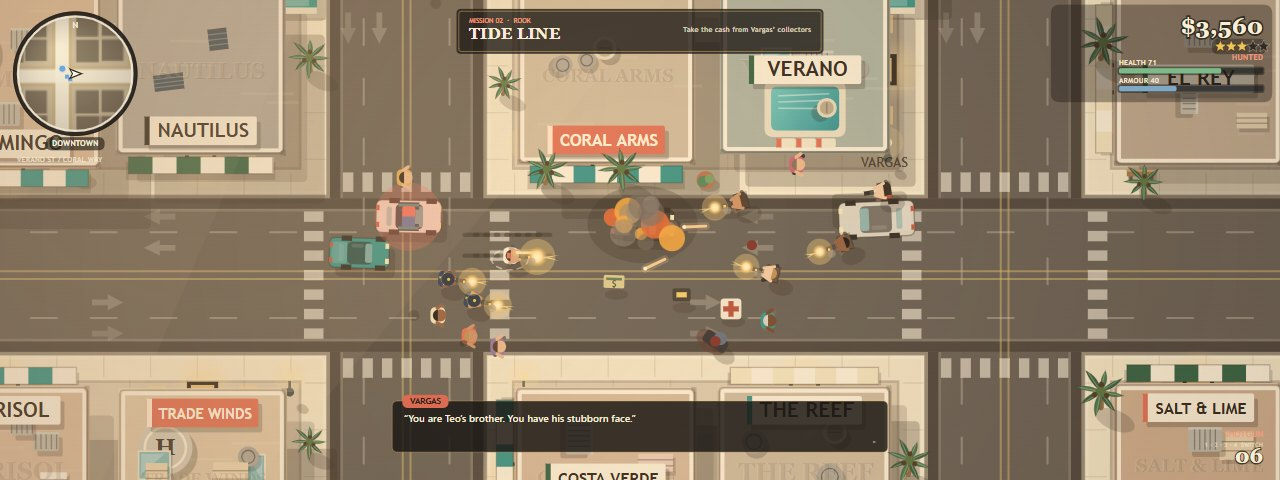
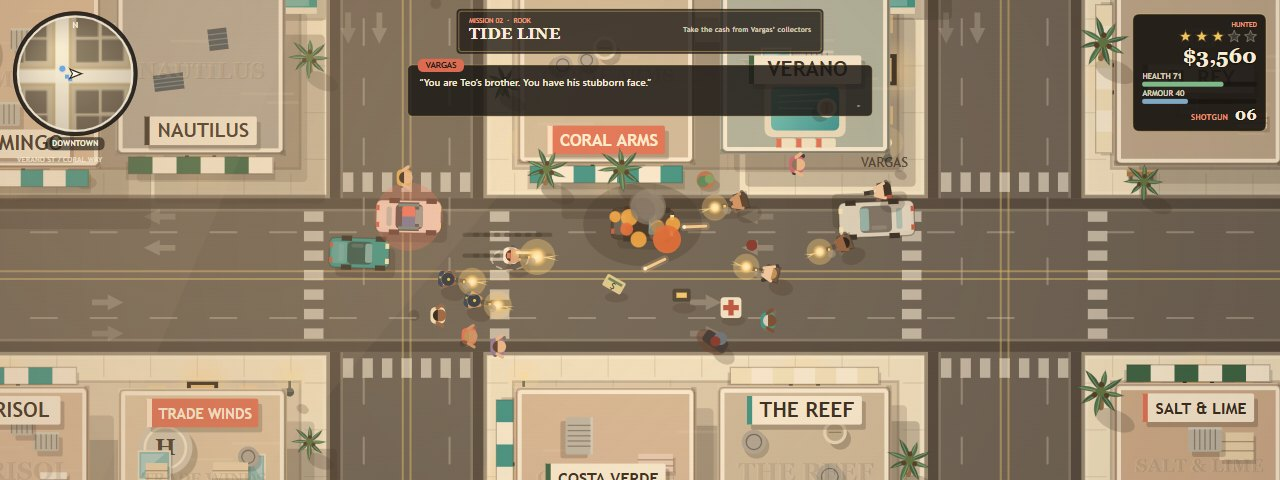
Lay the HUD out as three clean clusters
The status column is now one measured, right-aligned card: wanted stars
with their state above them, cash, health and armour bars with their
labels above the bar, and the weapon with its ammo. The speedometer
moves out of that corner into its own dial inside a 14 px frame margin,
and the dialogue sits under the mission banner instead of the bottom
edge. All widths follow the text, so more money or ammo widens the card
cleanly instead of colliding. Screenshots re-captured.

diff --git a/game/src/hud.js b/game/src/hud.js
@@ -122,113 +122,166 @@ export function createHud(canvas) {
     ctx.font = `600 ${9.5 * s}px ${FONT.narrow}`;
     ctx.fillText(`${street.street} / ${street.cross}`, 22 * s, my + radius + 40 * s);
 
-    // ---- money, wanted stars, health (top right) ----------------------------
-    const right = w - 22 * s;
-    ctx.fillStyle = 'rgba(24,20,17,0.36)';
-    roundRectPath(ctx, w - 296 * s, 6 * s, 286 * s, 126 * s, 12 * s);
-    ctx.fill();
-    ctx.textAlign = 'right';
-    ctx.font = `700 ${30 * s}px ${FONT.display}`;
-    ctx.lineWidth = 4 * s;
-    ctx.strokeStyle = 'rgba(28,23,19,0.72)';
-    const cash = money(p.money);
-    ctx.strokeText(cash, right, 44 * s);
-    ctx.fillStyle = cashFlash > 0 ? '#fff1c2' : PALETTE.cream;
-    ctx.fillText(cash, right, 44 * s);
+    // ---- status column (top right) -----------------------------------------
+    // One right-aligned column: the wanted stars, then the cash, then health and
+    // armour, then the weapon and its ammo. Every row is measured before anything
+    // is drawn, so the panel and the bars widen with the text instead of guessing.
+    const edge = Math.max(14, 14 * s);
+    const padX = 12 * s;
+    const padY = 10 * s;
+    const rowGap = 7 * s;
+    const tightGap = 4 * s;
+    const wantedFont = `700 ${8.5 * s}px ${FONT.narrow}`;
+    const statFont = `700 ${10 * s}px ${FONT.narrow}`;
+    const cashFont = `700 ${27 * s}px ${FONT.display}`;
+    const nameFont = `700 ${10.5 * s}px ${FONT.narrow}`;
+    const ammoFont = `700 ${21 * s}px ${FONT.display}`;
+    const starR = 8 * s;
+    const starGap = 5 * s;
+    const barH = Math.max(6 * s, 5);
 
-    const starsX = right - 5 * 14 * s;
-    const starsY = 60 * s;
-    ctx.fillStyle = 'rgba(28,24,20,0.4)';
-    roundRectPath(ctx, starsX + 4 * s, starsY - 10 * s, 5 * 14 * s, 20 * s, 9 * s);
+    const measure = (px, font, text) => {
+      ctx.font = font;
+      const m = ctx.measureText(text);
+      const asc = m.actualBoundingBoxAscent || px * 0.74;
+      const desc = m.actualBoundingBoxDescent || px * 0.2;
+      return { w: m.width, asc, desc, h: asc + desc };
+    };
+
+    const cash = money(p.money);
+    const weapon = WEAPONS[p.weapon];
+    const ammo = p.weapon === 'fists' ? '—' : String(p.weapons[p.weapon].ammo).padStart(2, '0');
+    const wantedLabel = WANTED.starsLabel[police.level] ?? 'CLEAR';
+    const healthLabel = `HEALTH ${Math.ceil(p.health)}`;
+    const armourLabel = `ARMOUR ${Math.ceil(p.armour)}`;
+    const cashM = measure(27 * s, cashFont, cash);
+    const nameM = measure(10.5 * s, nameFont, weapon.name);
+    const ammoM = measure(21 * s, ammoFont, ammo);
+    const wantedM = measure(8.5 * s, wantedFont, wantedLabel);
+    const healthM = measure(10 * s, statFont, healthLabel);
+    const armourM = measure(10 * s, statFont, armourLabel);
+    const starRowW = WANTED.max * starR * 2 + (WANTED.max - 1) * starGap;
+    const weaponRowW = nameM.w + ammoM.w + 9 * s;
+    const contentW = Math.max(starRowW, wantedM.w, cashM.w, weaponRowW, healthM.w, armourM.w, 148 * s);
+    const panelX = w - edge - contentW - padX * 2;
+    const right = w - edge - padX;
+    const left = right - contentW;
+
+    let cursor = edge + padY;
+    const wantedBaseline = cursor + wantedM.asc;
+    cursor += wantedM.h + 3 * s;
+    const starY = cursor + starR;
+    cursor += starR * 2 + rowGap;
+    const cashBaseline = cursor + cashM.asc;
+    cursor += cashM.h + rowGap;
+    const healthBaseline = cursor + healthM.asc;
+    const healthTop = cursor + healthM.h + 2 * s;
+    cursor = healthTop + barH + tightGap;
+    const armourBaseline = cursor + armourM.asc;
+    const armourTop = cursor + armourM.h + 2 * s;
+    cursor = armourTop + barH + rowGap;
+    const weaponTop = cursor;
+    const weaponBaseline = weaponTop + Math.max(ammoM.asc, nameM.asc);
+    const panelH = weaponTop + Math.max(ammoM.h, nameM.h) + padY - edge;
+
+    ctx.fillStyle = 'rgba(29,24,20,0.94)';
+    roundRectPath(ctx, panelX, edge, contentW + padX * 2, panelH, 9 * s);
     ctx.fill();
+    ctx.strokeStyle = 'rgba(240,201,106,0.4)';
+    ctx.lineWidth = 1;
+    ctx.stroke();
+
+    // Wanted stars, five to a row, the empty ones dimmed, with the state above them.
+    ctx.textAlign = 'right';
+    ctx.font = wantedFont;
+    ctx.fillStyle = police.level > 0 ? TONE.coral : 'rgba(247,237,215,0.5)';
+    ctx.fillText(wantedLabel, right, wantedBaseline);
+    const starsX = right - starRowW;
     for (let i = 0; i < WANTED.max; i += 1) {
       const active = i < police.level;
-      const cx = starsX + 15 * s + i * 14 * s;
+      const cx = starsX + starR + i * (starR * 2 + starGap);
       const blink = active && police.level >= 4 ? 0.6 + 0.4 * Math.sin(time * 8 + i) : 1;
-      starPath(ctx, cx, starsY, 8.2 * s);
-      ctx.fillStyle = active ? `rgba(240,196,92,${blink})` : 'rgba(36,31,26,0.72)';
+      starPath(ctx, cx, starY, starR);
+      ctx.fillStyle = active ? `rgba(240,196,92,${blink})` : 'rgba(247,237,215,0.12)';
       ctx.fill();
-      ctx.strokeStyle = active ? 'rgba(50,38,20,0.7)' : 'rgba(247,237,215,0.4)';
-      ctx.lineWidth = 1 * s;
+      ctx.strokeStyle = active ? 'rgba(50,38,20,0.7)' : 'rgba(247,237,215,0.3)';
+      ctx.lineWidth = 1;
       ctx.stroke();
     }
-    ctx.font = `700 ${10.5 * s}px ${FONT.narrow}`;
-    ctx.fillStyle = police.level > 0 ? TONE.coral : 'rgba(247,237,215,0.72)';
-    ctx.fillText(WANTED.starsLabel[police.level] ?? 'CLEAR', right, starsY + 17 * s);
 
-    // Health and armour bars.
-    const barW = 186 * s;
-    const barX = right - barW;
-    const bar = (value, max, color, back, label, y) => {
-      ctx.fillStyle = 'rgba(28,24,20,0.5)';
-      roundRectPath(ctx, barX - 2 * s, y - 2 * s, barW + 4 * s, 11 * s, 4 * s);
+    // Cash on its own line.
+    ctx.textAlign = 'right';
+    ctx.font = cashFont;
+    ctx.lineWidth = 3.5 * s;
+    ctx.strokeStyle = 'rgba(28,23,19,0.7)';
+    ctx.strokeText(cash, right, cashBaseline);
+    ctx.fillStyle = cashFlash > 0 ? '#fff1c2' : PALETTE.cream;
+    ctx.fillText(cash, right, cashBaseline);
+
+    // Health and armour: the label sits directly above its bar, never over it.
+    const stat = (label, labelBaseline, barTop, value, max, color) => {
+      ctx.textAlign = 'left';
+      ctx.font = statFont;
+      ctx.fillStyle = 'rgba(247,237,215,0.86)';
+      ctx.fillText(label, left, labelBaseline);
+      ctx.fillStyle = 'rgba(20,18,15,0.62)';
+      roundRectPath(ctx, left, barTop, contentW, barH, barH / 2);
       ctx.fill();
-      ctx.fillStyle = back;
-      roundRectPath(ctx, barX, y, barW, 7 * s, 3 * s);
-      ctx.fill();
-      const wdt = clamp(value / max, 0, 1) * barW;
-      if (wdt > 0) {
+      const filled = clamp(value / max, 0, 1) * contentW;
+      if (filled > 0) {
         ctx.fillStyle = color;
-        roundRectPath(ctx, barX, y, wdt, 7 * s, 3 * s);
+        roundRectPath(ctx, left, barTop, filled, barH, barH / 2);
         ctx.fill();
       }
-      ctx.font = `700 ${9.5 * s}px ${FONT.narrow}`;
-      ctx.fillStyle = 'rgba(247,237,215,0.95)';
-      ctx.textAlign = 'left';
-      ctx.fillText(`${label} ${Math.ceil(value)}`, barX, y - 4 * s);
     };
-    bar(p.health, p.maxHealth, p.health > 45 ? '#7fb98a' : '#d56a55', 'rgba(20,30,22,0.5)', 'HEALTH', 88 * s);
-    bar(p.armour, 100, '#7fa8c4', 'rgba(22,30,40,0.5)', 'ARMOUR', 111 * s);
-    ctx.textAlign = 'right';
+    stat(healthLabel, healthBaseline, healthTop, p.health, p.maxHealth, p.health > 45 ? '#7fb98a' : '#d56a55');
+    stat(armourLabel, armourBaseline, armourTop, p.armour, 100, '#7fa8c4');
 
-    // ---- weapon panel (bottom right) ---------------------------------------
-    const weapon = WEAPONS[p.weapon];
-    const wx = w - 22 * s;
-    const wy = h - 22 * s;
+    // Weapon and ammo share the last line.
     ctx.textAlign = 'right';
-    ctx.font = `700 ${11 * s}px ${FONT.narrow}`;
-    ctx.fillStyle = PALETTE.cream;
-    const ammo = p.weapon === 'fists' ? '—' : String(p.weapons[p.weapon].ammo).padStart(2, '0');
-    ctx.font = `700 ${27 * s}px ${FONT.display}`;
+    ctx.font = ammoFont;
     ctx.lineWidth = 3 * s;
     ctx.strokeStyle = 'rgba(28,23,19,0.7)';
-    ctx.strokeText(ammo, wx, wy);
-    ctx.fillText(ammo, wx, wy);
-    ctx.font = `700 ${11 * s}px ${FONT.narrow}`;
+    ctx.strokeText(ammo, right, weaponBaseline);
+    ctx.fillStyle = PALETTE.cream;
+    ctx.fillText(ammo, right, weaponBaseline);
+    ctx.font = nameFont;
     ctx.fillStyle = TONE.coral;
-    ctx.fillText(weapon.name, wx, wy - 34 * s);
-    ctx.fillStyle = 'rgba(247,237,215,0.55)';
-    ctx.font = `600 ${8 * s}px ${FONT.narrow}`;
-    ctx.fillText('1 · 2 · 3 · 4  SWITCH', wx, wy - 20 * s);
+    ctx.fillText(weapon.name, right - ammoM.w - 9 * s, weaponBaseline);
 
-    // Speedometer while driving.
+    // ---- speedometer (bottom right, fully inside the frame) -----------------
     if (p.mode === 'car' && p.car) {
       const speed = Math.hypot(p.car.vx, p.car.vy);
       const mph = Math.round(speed * 0.42);
-      const gx = wx - 88 * s;
-      const gy = wy - 60 * s;
-      const r = 31 * s;
+      const r = 32 * s;
+      const ring = 6 * s;
+      const gx = w - edge - (r + ring / 2 + 4 * s);
+      const gy = h - edge - (r + ring / 2 + 4 * s);
+      ctx.beginPath();
+      ctx.arc(gx, gy, r + ring / 2 + 4 * s, 0, Math.PI * 2);
+      ctx.fillStyle = 'rgba(24,20,17,0.58)';
+      ctx.fill();
       ctx.beginPath();
       ctx.arc(gx, gy, r, Math.PI * 0.78, Math.PI * 2.22);
-      ctx.strokeStyle = 'rgba(28,23,19,0.5)';
-      ctx.lineWidth = 7 * s;
+      ctx.strokeStyle = 'rgba(28,23,19,0.55)';
+      ctx.lineWidth = ring;
       ctx.stroke();
       ctx.beginPath();
       ctx.arc(gx, gy, r, Math.PI * 0.78, Math.PI * (0.78 + 1.44 * clamp(speed / 340, 0, 1)));
       ctx.strokeStyle = p.car.health < 90 ? PALETTE.coral : PALETTE.tealLight;
-      ctx.lineWidth = 4 * s;
+      ctx.lineWidth = ring * 0.62;
       ctx.stroke();
       ctx.fillStyle = PALETTE.cream;
       ctx.textAlign = 'center';
-      ctx.font = `700 ${18 * s}px ${FONT.display}`;
+      ctx.font = `700 ${20 * s}px ${FONT.display}`;
       ctx.fillText(String(mph), gx, gy + 4 * s);
-      ctx.font = `600 ${7.5 * s}px ${FONT.narrow}`;
-      ctx.fillStyle = 'rgba(247,237,215,0.6)';
-      ctx.fillText('MPH', gx, gy + 15 * s);
+      ctx.font = `600 ${8.5 * s}px ${FONT.narrow}`;
+      ctx.fillStyle = 'rgba(247,237,215,0.66)';
+      ctx.fillText('MPH', gx, gy + 18 * s);
       if (p.car.burning) {
         ctx.fillStyle = TONE.coral;
         ctx.font = `700 ${9 * s}px ${FONT.narrow}`;
-        ctx.fillText('ENGINE FIRE', gx, gy - 18 * s);
+        ctx.fillText('ENGINE FIRE', gx, gy - 20 * s);
       }
     }
     ctx.textAlign = 'left';
@@ -336,12 +389,12 @@ export function createHud(canvas) {
       ctx.textAlign = 'left';
     }
 
-    // ---- dialogue (bottom centre) ------------------------------------------
+    // ---- dialogue (top centre, under the mission banner) --------------------
     const dialogue = game.missions?.currentDialogue;
     if (dialogue) {
-      const dw = Math.min(640 * s, w - 340 * s);
+      const dw = Math.min(600 * s, w - 400 * s);
       const dx = (w - dw) / 2;
-      const dy = h - 102 * s;
+      const dy = mission ? 12 * s + 58 * s + 14 * s : 14 * s;
       const age = dialogue.age ?? 0;
       const alphaD = clamp(age / 0.18, 0, 1);
       ctx.globalAlpha = alphaD;
